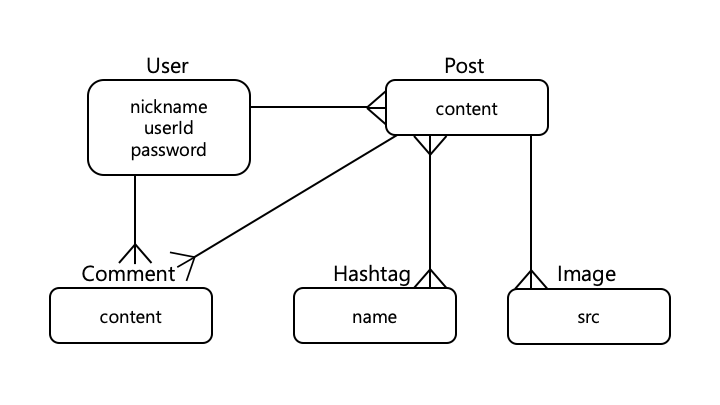
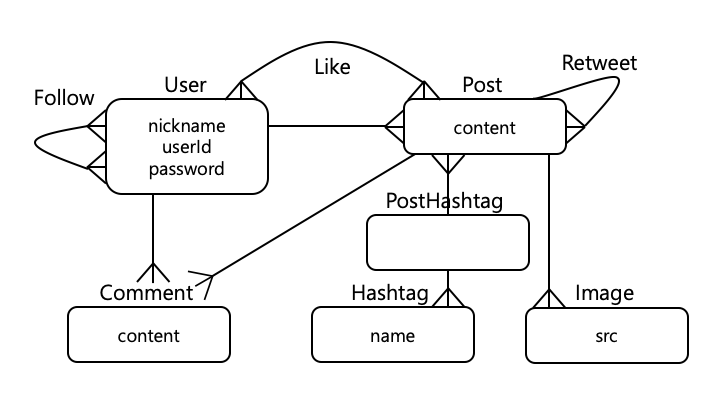
working on README

diff --git a/README.md b/README.md
@@ -44,12 +44,13 @@ it should look like down below:
 ![ERD](./images/erd.png)
 
 ### Association
-A user can make many posts and comments => `hasMany`   
+A user can make many posts and comments; one-to-many => `hasMany`   
 Little tricky thing here is generally a hashtag can have many posts. Let's imagine #love on Instagram
 likewise, a post so in this case, we set both like below so      
 `db.Post.belongsToMany(db.Hashtag, { through: 'PostHashtag' };`   
 `db.Hashtag.belongsToMany(db.Post, { through: 'PostHashtag' });`   
-You can also look up this [Sequelize's documentation](http://docs.sequelizejs.com/class/lib/associations/base.js~Association.html)
+Due to 'belongsToMany' association, we need to use `through` attribute to create new model 'PostHashtag'   
+You can also look up these associations [Sequelize's documentation](http://docs.sequelizejs.com/class/lib/associations/base.js~Association.html)
 
 
 
